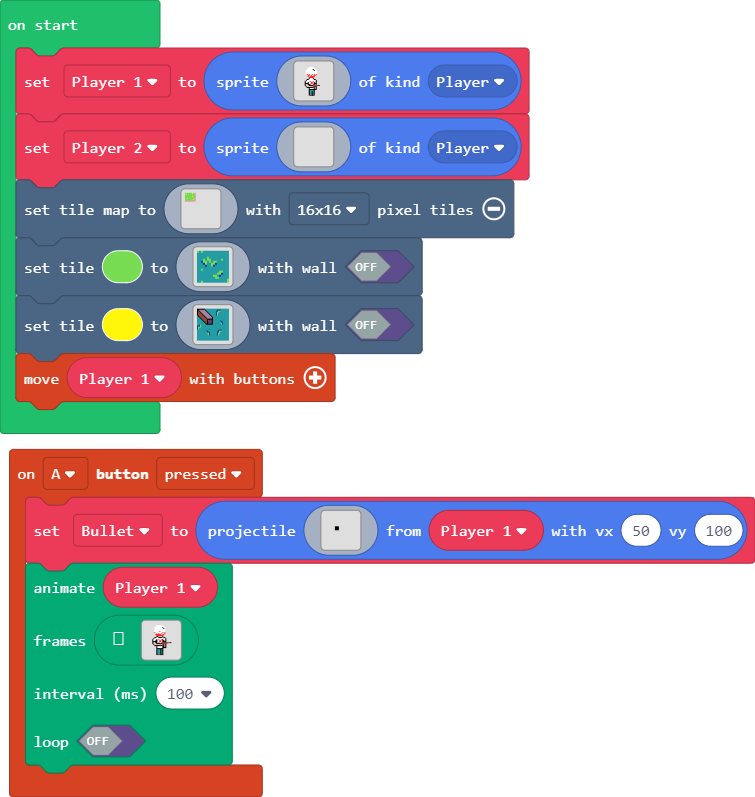
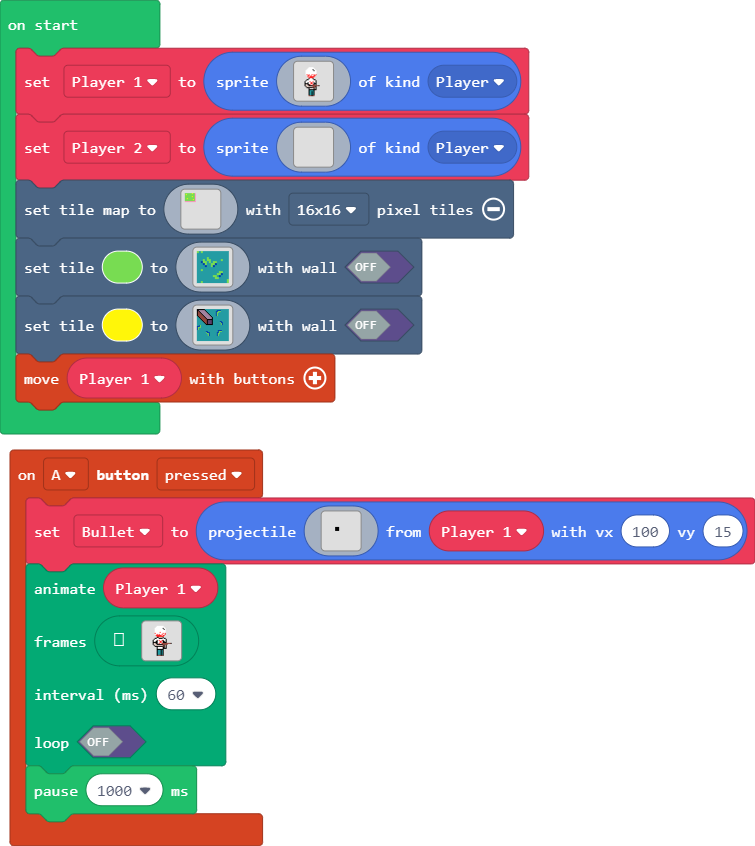
Update main.blocks, main.ts

Changed region(s): [[0.0, 0.0301, 1.0, 0.9937]]

diff --git a/main.ts b/main.ts
@@ -16,7 +16,7 @@ controller.A.onEvent(ControllerButtonEvent.Pressed, function () {
 . . . . . . . . . . . . . . . . 
 . . . . . . . . . . . . . . . . 
 . . . . . . . . . . . . . . . . 
-`, Player_1, 50, 100)
+`, Player_1, 100, 15)
     animation.runImageAnimation(
     Player_1,
     [img`
@@ -185,9 +185,10 @@ controller.A.onEvent(ControllerButtonEvent.Pressed, function () {
 . . . . . . . . . . . f e e e f e f . . . . . . . . . . . . . . 
 . . . . . . . . . . . . . . . . . . . . . . . . . . . . . . . . 
 `],
-    100,
+    60,
     false
     )
+    pause(1000)
 })
 let Bullet: Sprite = null
 let Player_1: Sprite = null
